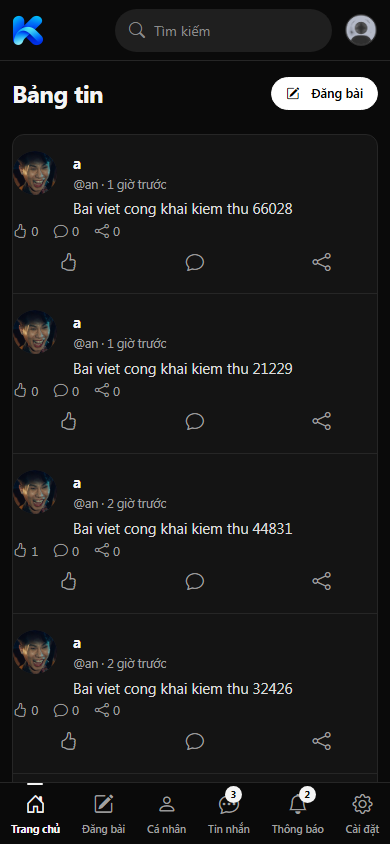
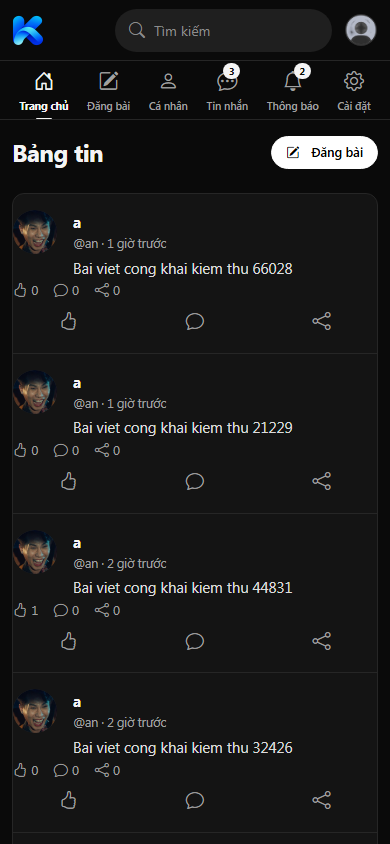
Move mobile navigation below topbar
Repositions authenticated and guest mobile navigation beneath the topbar, updates sticky positioning and active indicators, and adjusts chat, profile, toast, and responsive layout spacing accordingly.

diff --git a/assets/css/app.css b/assets/css/app.css
@@ -96,9 +96,8 @@
         --kb-ease-out: cubic-bezier(.16, 1, .3, 1);
 
         /* ---- Độ sâu hậu thiên ---- */
-        --kb-topbar-h-sm: 52px;
-        /* Chiều cao thanh điều hướng dưới (mobile) — dùng để nâng toast */
-        --kb-mobile-nav-h: 56px;
+        /* Chiều cao thanh điều hướng ngang (mobile) — nằm ngay dưới topbar */
+        --kb-mobile-nav-h: 60px;
 
         /* ---- Bố cục máy tính ---- */
         --kb-shell-max: 1200px;
@@ -2820,13 +2819,13 @@
     /* ---- Mobile: danh sách hội thoại chiếm trọn màn hình ---- */
     .chat-layout[data-view="list"] .chat-sidebar {
         display: flex;
-        height: calc(100dvh - var(--kb-topbar-h) - 96px);
+        height: calc(100dvh - var(--kb-topbar-h) - var(--kb-mobile-nav-h) - 32px);
         min-height: 420px;
     }
 
     /* ---- Mobile: mở một cuộc trò chuyện — ẩn danh sách, hiện vùng đọc ---- */
     .chat-layout[data-view="conversation"] {
-        height: calc(100dvh - var(--kb-topbar-h) - 84px);
+        height: calc(100dvh - var(--kb-topbar-h) - var(--kb-mobile-nav-h) - 24px);
         min-height: 440px;
     }
 
@@ -3885,18 +3884,25 @@
         margin: 0;
     }
 
-    /* ---------------- Điều hướng di động ---------------- */
+    /* ---------------- Điều hướng di động ----------------
+       Thanh ngang nằm ngay dưới topbar, dính theo khi cuộn trang. */
     .mobile-nav {
-        position: fixed;
-        bottom: 0;
-        left: 0;
-        right: 0;
+        position: sticky;
+        top: var(--kb-topbar-h);
+        z-index: 1029;
         background-color: var(--kb-canvas);
-        border-top: 1px solid var(--kb-hairline-soft);
+        border-bottom: 1px solid var(--kb-hairline-soft);
         display: flex;
         justify-content: space-around;
-        padding: .4rem 0 calc(.4rem + env(safe-area-inset-bottom));
-        z-index: 1030;
+        align-items: stretch;
+        gap: var(--kb-space-xxs);
+        padding: .3rem var(--kb-space-sm);
+        overflow-x: auto;
+        scrollbar-width: none;
+    }
+
+    .mobile-nav::-webkit-scrollbar {
+        display: none;
     }
 
     .mobile-nav a {
@@ -3921,11 +3927,11 @@
         font-weight: 700;
     }
 
-    /* Gạch chỉ báo phía trên cho mục đang chọn */
+    /* Gạch chỉ báo phía dưới cho mục đang chọn */
     .mobile-nav a.active::before {
         content: "";
         position: absolute;
-        top: -.4rem;
+        bottom: -.35rem;
         left: 50%;
         transform: translateX(-50%);
         width: 16px;
@@ -5416,10 +5422,6 @@
 }
 
 @media (max-width: 991.98px) {
-    .app-shell {
-        padding-bottom: 84px;
-    }
-
     .post-actions .action-btn span {
         display: none;
     }
@@ -5630,7 +5632,7 @@
         position: relative;
         z-index: 1;
         background-color: var(--kb-surface-card);
-        padding-top: calc(var(--kb-topbar-h) + var(--kb-space-md));
+        padding-top: calc(var(--kb-topbar-h) + var(--kb-mobile-nav-h) + var(--kb-space-md));
     }
 
     .chat-layout[data-view="list"][data-chat-start-open="1"] .chat-start-close {
@@ -5721,7 +5723,7 @@
     }
 
     .profile-tabs-wrap {
-        top: var(--kb-topbar-h-sm);
+        top: calc(var(--kb-topbar-h) + var(--kb-mobile-nav-h));
     }
 
     /* Mobile: tab trượt ngang thay vì xuống dòng để tiết kiệm chiều cao */

diff --git a/assets/css/toast.css b/assets/css/toast.css
@@ -128,7 +128,6 @@
 
 @media (max-width: 767.98px) {
     .toast-container {
-        bottom: calc(var(--kb-mobile-nav-h) + var(--kb-space-sm));
         right: var(--kb-space-sm);
         left: var(--kb-space-sm);
         width: auto;

diff --git a/assets/css/profile.css b/assets/css/profile.css
@@ -822,7 +822,7 @@
     }
 
     .mp-tabs {
-        top: var(--kb-topbar-h-sm);
+        top: calc(var(--kb-topbar-h) + var(--kb-mobile-nav-h));
         gap: var(--kb-space-md);
     }
 

diff --git a/app/Views/layouts/main.php b/app/Views/layouts/main.php
@@ -63,6 +63,12 @@ $ws['enabled'] = !empty($ws['enabled']) && !empty($ws['token']);
       data-ws-conversation-id="<?= (int) ($ws['conversation_id'] ?? ($conversationId ?? 0)) ?>">
 <?php require __DIR__ . '/partials/topbar.php'; ?>
 
+<?php if (is_auth()): ?>
+    <?php require __DIR__ . '/partials/mobile-nav.php'; ?>
+<?php else: ?>
+    <?php require __DIR__ . '/partials/mobile-nav-guest.php'; ?>
+<?php endif; ?>
+
 <div class="app-shell">
     <div class="app-grid<?= is_auth() ? '' : ' is-guest' ?><?= (!empty($wide) && is_auth()) ? ' is-wide' : '' ?>">
         <?php if (is_auth()): ?>
@@ -91,12 +97,6 @@ $ws['enabled'] = !empty($ws['enabled']) && !empty($ws['token']);
     <div class="app-rail-inline<?= is_auth() ? ' is-duplicate' : '' ?>">
         <?php require __DIR__ . '/partials/' . $rightRail . '.php'; ?>
     </div>
-<?php endif; ?>
-
-<?php if (is_auth()): ?>
-    <?php require __DIR__ . '/partials/mobile-nav.php'; ?>
-<?php else: ?>
-    <?php require __DIR__ . '/partials/mobile-nav-guest.php'; ?>
 <?php endif; ?>
 
 <?php require __DIR__ . '/partials/footer.php'; ?>

diff --git a/app/Views/layouts/partials/mobile-nav-guest.php b/app/Views/layouts/partials/mobile-nav-guest.php
@@ -1,8 +1,8 @@
 <?php
 /**
- * Thanh điều hướng dưới màn hình dành cho khách chưa đăng nhập.
+ * Thanh điều hướng dành cho khách chưa đăng nhập.
  *
- * Người đã đăng nhập dùng `mobile-nav.php` (5 mục + badge); khách chỉ cần
+ * Người đã đăng nhập dùng `mobile-nav.php` (6 mục + badge); khách chỉ cần
  * các đường dẫn công khai nên có thanh gọn hơn.
  */
 $path = parse_url($_SERVER['REQUEST_URI'] ?? '/', PHP_URL_PATH) ?: '/';
